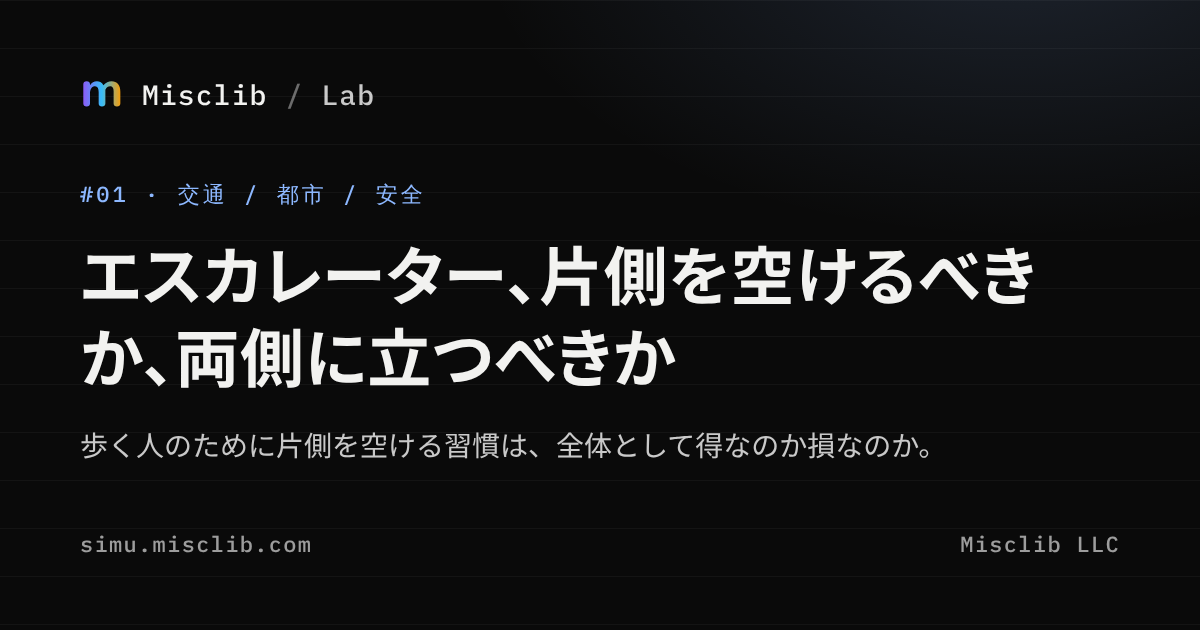
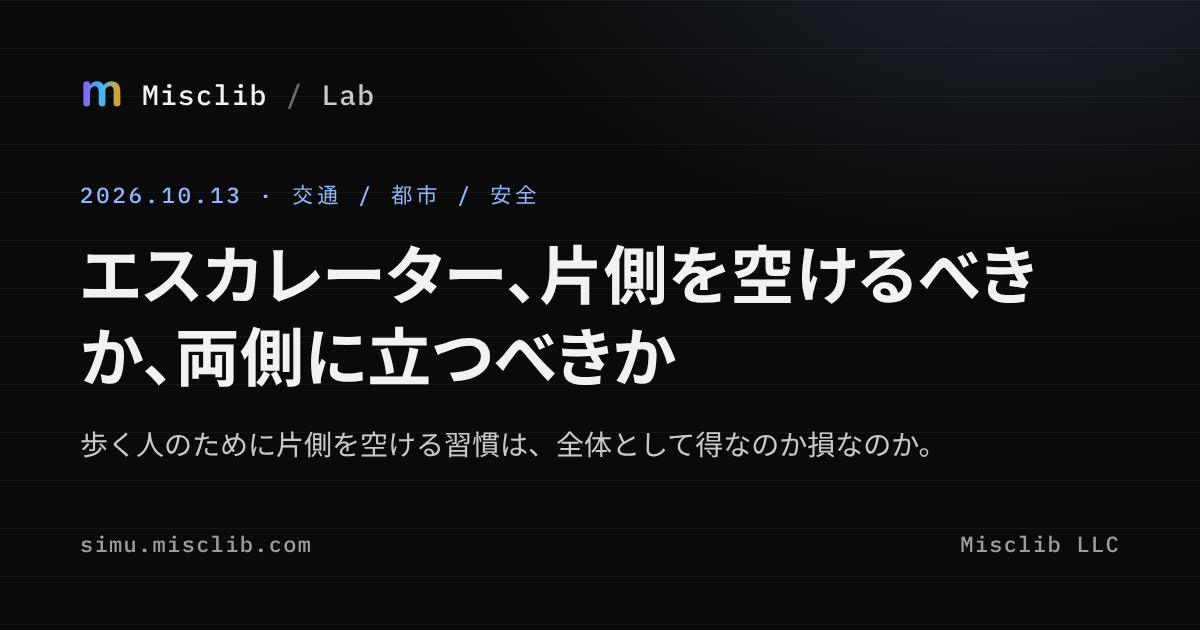
「第 N 回」の番号をやめ、記事は日付だけで並べる
- SimEntry から no を削除し、一覧は日付の新しい順に並べる
- 一覧・記事ページ・OG 画像の「#07」表示を外す (OG は日付 + タグ)
- README の「第 N 回」を削除

Claude-Session: https://claude.ai/code/session_01KjuqFmnBgJ8zJFYmPkKNjb

diff --git a/src/lib/sims.ts b/src/lib/sims.ts
@@ -4,7 +4,6 @@
  */
 export interface SimEntry {
   slug: string;
-  no: number;
   title: string;
   question: string;
   summary: string;
@@ -15,7 +14,6 @@ export interface SimEntry {
 export const simEntries: SimEntry[] = [
   {
     slug: "escalator",
-    no: 1,
     title: "エスカレーター、片側を空けるべきか、両側に立つべきか",
     question: "歩く人のために片側を空ける習慣は、全体として得なのか損なのか。",
     summary:
@@ -25,7 +23,6 @@ export const simEntries: SimEntry[] = [
   },
   {
     slug: "truck-berth",
-    no: 2,
     title: "トラックの荷待ち、予約制にすれば消えるのか",
     question: "物流センターの荷降ろしを先着順からバース予約制に変えると、ドライバーの待ち時間はどこへ行くのか。",
     summary:
@@ -35,7 +32,6 @@ export const simEntries: SimEntry[] = [
   },
   {
     slug: "quake-alert",
-    no: 3,
     title: "地震の警報、どこで鳴らせばいちばん多くの人を守れるか",
     question: "空振りを恐れれば見逃しが増え、見逃しを恐れれば空振りで信頼が削られる。その釣り合いはどこにあるのか。",
     summary:
@@ -45,7 +41,6 @@ export const simEntries: SimEntry[] = [
   },
   {
     slug: "toilet",
-    no: 4,
     title: "女性トイレの行列は、便器を何個ずつに分ければ消えるのか",
     question: "同じ広さのまま男女の便器の数を分け直すと、待ち時間はどこで釣り合うのか。",
     summary:
@@ -55,7 +50,6 @@ export const simEntries: SimEntry[] = [
   },
   {
     slug: "speed30",
-    no: 5,
     title: "生活道路の 30 km/h、何秒遅れて何人助かるのか",
     question: "中央線のない道の法定速度が 60 km/h から 30 km/h に下がった。その遅れと安全は釣り合っているのか。",
     summary:
@@ -65,7 +59,6 @@ export const simEntries: SimEntry[] = [
   },
   {
     slug: "kyoto-bus",
-    no: 6,
     title: "京都の市バス、観光客の運賃を上げれば市民は乗れるようになるのか",
     question: "市民 200 円・観光客 400 円の「二重運賃」。満員で通り過ぎるバスは、値段で止められるのか。",
     summary:
@@ -75,7 +68,6 @@ export const simEntries: SimEntry[] = [
   },
   {
     slug: "rice-reserve",
-    no: 7,
     title: "備蓄米、何万トン持てば次の米騒動を止められるのか",
     question: "政府は備蓄米の買い戻しを決めた。倉庫の米の量と、出す速さと、買い戻す時期。米の値段を決めるのはどれなのか。",
     summary:
@@ -87,6 +79,11 @@ export const simEntries: SimEntry[] = [
 
 export function getSimEntry(slug: string): SimEntry | undefined {
   return simEntries.find((e) => e.slug === slug);
+}
+
+/** 新しい日付が先。同じ日付なら simEntries で後ろに書いたものが先。 */
+export function simEntriesByDate(): SimEntry[] {
+  return [...simEntries].reverse().sort((a, b) => b.date.localeCompare(a.date));
 }
 
 export function formatDate(iso: string): string {

diff --git a/src/app/page.tsx b/src/app/page.tsx
@@ -1,5 +1,5 @@
 import Link from "next/link";
-import { formatDate, simEntries } from "@/lib/sims";
+import { formatDate, simEntries, simEntriesByDate } from "@/lib/sims";
 import { COMPANY, SITE_DESCRIPTION, SITE_NAME, SITE_TAGLINE, SITE_URL } from "@/lib/site";
 import { JsonLd } from "@/components/JsonLd";
 
@@ -64,15 +64,13 @@ export default function Home() {
           <h2 className="text-lg font-bold">シミュレーション一覧</h2>
         </div>
         <ul className="grid gap-4 sm:grid-cols-2">
-          {[...simEntries].sort((a, b) => b.no - a.no).map((e) => (
+          {simEntriesByDate().map((e) => (
             <li key={e.slug}>
               <Link
                 href={`/sims/${e.slug}`}
                 className="group block h-full rounded-xl border border-border bg-card p-5 transition hover:border-accent"
               >
                 <div className="flex items-center gap-2 font-mono text-xs text-muted">
-                  <span>#{String(e.no).padStart(2, "0")}</span>
-                  <span>·</span>
                   <time dateTime={e.date}>{formatDate(e.date)}</time>
                 </div>
                 <h3 className="mt-2 text-lg font-bold leading-snug group-hover:text-accent">{e.title}</h3>

diff --git a/src/app/sims/[slug]/page.tsx b/src/app/sims/[slug]/page.tsx
@@ -77,8 +77,6 @@ export default async function SimPage(props: PageProps<"/sims/[slug]">) {
           ← 一覧へ
         </Link>
         <div className="flex items-center gap-2 font-mono text-xs text-muted">
-          <span>#{String(entry.no).padStart(2, "0")}</span>
-          <span>·</span>
           <time dateTime={entry.date}>{formatDate(entry.date)}</time>
           <span>·</span>
           <span>{entry.tags.join(" / ")}</span>

diff --git a/README.md b/README.md
@@ -3,33 +3,33 @@
 身近な社会課題をうんと単純化したモデルに落とし込み、ブラウザの中で動かして眺めるブログ型の Web アプリです。
 記事ごとにルールの異なる複数の世界を並べてアニメーションし、数字とグラフで比べます。
 
-- 第 1 回: **エスカレーター、片側を空けるべきか、両側に立つべきか** (`/sims/escalator`)
+- **エスカレーター、片側を空けるべきか、両側に立つべきか** (`/sims/escalator`)
   - 朝のラッシュ / 昼の閑散時 / 電車が着いた直後の波 / 歩く側に立つ人がいる の 4 シナリオ
   - 「片側を空ける」と「両側に立つ」を同じ乱数で同時に動かして比較
   - 100 回試行の平均、待ち行列・輸送人数の時系列グラフ
-- 第 2 回: **トラックの荷待ち、予約制にすれば消えるのか** (`/sims/truck-berth`)
+- **トラックの荷待ち、予約制にすれば消えるのか** (`/sims/truck-berth`)
   - いつもの平日 / 渋滞で遅れる日 / 予約しないトラックが多い / 荷物が多すぎる日 の 4 シナリオ
   - 物流センターの荷降ろしを「先着順」と「バース予約制」で、同じトラック・同じ遅れのまま同時に動かして比較
   - 荷待ち時間、荷待ち+荷役の 2 時間超え割合、時間帯に遅れた割合、予約なし車の荷待ちを 100 日試行で集計
-- 第 3 回: **地震の警報、どこで鳴らせばいちばん多くの人を守れるか** (`/sims/quake-alert`)
+- **地震の警報、どこで鳴らせばいちばん多くの人を守れるか** (`/sims/quake-alert`)
   - 2026 年 10 月 16 日の緊急地震速報「M9.9」誤報がきっかけ
   - 鳴らす震度のしきい値だけが違う 3 つの町で、同じ 30 年分の地震を流して比較
   - 空振りで警報への信頼が下がる「オオカミ少年」効果、誤作動、大きな揺れがまれな町などのシナリオ
-- 第 4 回: **女性トイレの行列は、便器を何個ずつに分ければ消えるのか** (`/sims/toilet`)
+- **女性トイレの行列は、便器を何個ずつに分ければ消えるのか** (`/sims/toilet`)
   - 国交省の便器数ガイドライン (2026 年 6 月) を題材に、16 個の便器の男女の分け方を変えて比較
   - 駅の夕方 / 劇場の休憩 15 分 / 連休の SA / 客層が入れ替わるアリーナ (可変トイレ) の 4 シナリオ
   - 右の世界の配分をスライダーで変えて、男女の待ち時間が釣り合う点を探せる
-- 第 5 回: **生活道路の 30 km/h、何秒遅れて何人助かるのか** (`/sims/speed30`)
+- **生活道路の 30 km/h、何秒遅れて何人助かるのか** (`/sims/speed30`)
   - 2026 年 9 月の法定速度引き下げ (中央線のない一般道 60 → 30 km/h) が題材
   - 住宅街の抜け道 / 通学路の朝 / 郊外の広い農道 の 3 シナリオ
   - 同じ車と同じ飛び出しを「上限 60」と「上限 30」で同時に走らせ、所要時間・衝突速度・死亡の期待値を比較
   - 人が見えた瞬間の速度 × 距離の散布図 (停止距離の帯つき)、100 回試行の合計
-- 第 6 回: **京都の市バス、観光客の運賃を上げれば市民は乗れるようになるのか** (`/sims/kyoto-bus`)
+- **京都の市バス、観光客の運賃を上げれば市民は乗れるようになるのか** (`/sims/kyoto-bus`)
   - 京都市が 2027 年度中の導入をめざす「二重運賃」(市民 200 円・市民以外 350〜400 円) が題材
   - 平日の昼 / 紅葉の週末 / 運転士が足りない の 3 シナリオ
   - 京都駅→祇園の 1 路線で、いまのまま・二重運賃・観光特急に回す・始発で 2 割空ける・全部のせ を左右の世界で選んで比較
   - 観光客の運賃への反応 (弾力性) をスライダーで変え、乗り残される市民・あきらめた市民・運賃収入を 100 回試行で集計
-- 第 7 回: **備蓄米、何万トン持てば次の米騒動を止められるのか** (`/sims/rice-reserve`)
+- **備蓄米、何万トン持てば次の米騒動を止められるのか** (`/sims/rice-reserve`)
   - 2026 年 10 月 30 日に農水省が正式決定した、備蓄米 10 万 t の追加買い戻しが題材
   - ふつうの 30 年 / 令和の米騒動をもう一度 / 1993 年級の大凶作 / いまから (在庫は余り、備蓄は半分) の 4 シナリオ
   - 同じ 30 年間の作況を、備蓄の量・放出の速さ・買い戻しの時期・入れ替え年数が違う 7 つの方針から 2 つ選んで並べて比較
